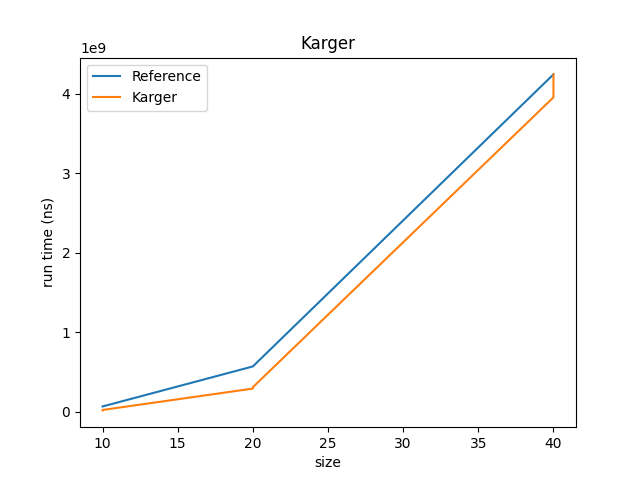
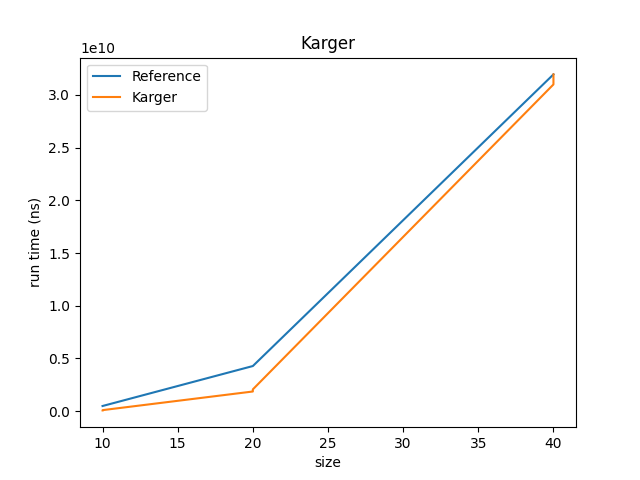
Setting the references for plots generation

diff --git a/Lab3/main.py b/Lab3/main.py
@@ -33,7 +33,7 @@ def measureTime(Graphs: List[Graph], Function, Weights, Time, Discovery_time):
             if Function.__name__ == "Karger":
                 # This will give us a probability of 1-1/n for Karger and Stain
                 n = len(graph.getEdgesList())
-                Result, D_time = Function(graph, int(n * math.log(n) / (n - 1)))
+                Result, D_time = Function(graph, int(math.log2(n)**2))
             else:
                 Result, D_time = Function(graph)
 
@@ -92,16 +92,23 @@ def functionExecution(Graphs, Function, FilePath: str) -> None:
         Output, Times, Discovery, FilePath
     )  # FIXME The second Times needs to be releated to the minimum cut search
 
-    graph_sizes = sorted([graph.dimension for graph in Graphs])
-    pyplot(graph_sizes, sorted(Times), Function.__name__)
+    graph_sizes = [graph.dimension for graph in Graphs]
+    graph_edge_sized = [len(list(G.getEdges().keys())) for G in Graphs]
+    pyplot(graph_sizes,graph_edge_sized, sorted(Times), Function.__name__)
 
 
-def pyplot(graphs_sizes, times_Function, Function):
+def pyplot(graphs_sizes, graph_edge_sized, times_Function, Function):
     ################## pyplot ##################
-    C = int(
-        times_Function[-1] / (graphs_sizes[-1] ** 2 * math.log2(graphs_sizes[-1]) ** 3)
-    )  # Takes the last elements as reference
-    reference = [n ** 2 * math.log2(n) ** 3 * C for n in graphs_sizes]
+    if Function == "stoerWagner":
+        C = int(
+        times_Function[-1] / (graph_edge_sized[-1] * graphs_sizes[-1] + (graphs_sizes[-1] ** 2) * math.log2(graphs_sizes[-1]))
+        )  # Takes the last elements as reference
+        reference = [(graph_edge_sized[i] * n + (n ** 2) * math.log2(n )) * C for i, n in enumerate(graphs_sizes)]
+    else:
+        C = int(
+            times_Function[-1] / (graphs_sizes[-1] ** 2 * math.log2(graphs_sizes[-1]) ** 3)
+        )  # Takes the last elements as reference
+        reference = [n ** 2 * math.log2(n) ** 3 * C for n in graphs_sizes]
     plt.plot(graphs_sizes, reference)
     plt.plot(graphs_sizes, times_Function)
     plt.title(Function)
@@ -114,7 +121,7 @@ def pyplot(graphs_sizes, times_Function, Function):
 
 def main():
 
-    Graphs: List[float] = []
+    Graphs: List[Graph] = []
     foldername = "dataset"
     optimal_sol = []
     for filename in sorted(os.listdir(foldername)):  # Use [:x] to set a limit
